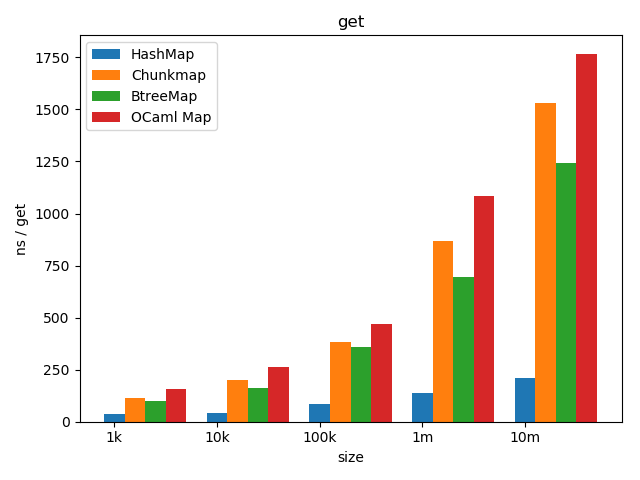
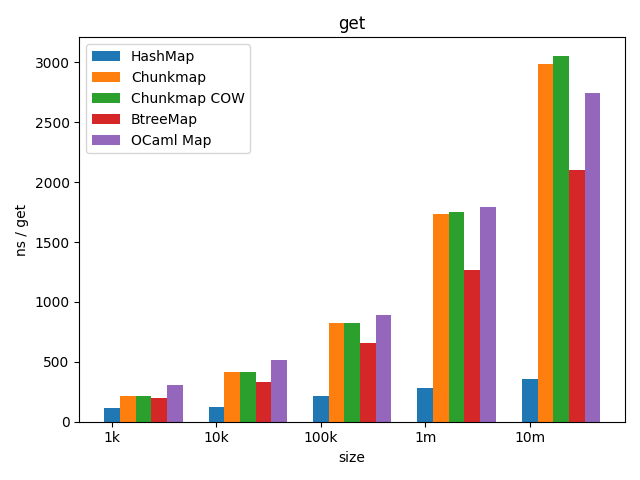
add a benchmark for pure COW CM

diff --git a/bench/bench.py b/bench/bench.py
@@ -45,15 +45,16 @@ def run(exe, bench, kind):
         avg3(result['remove'])
     return result
             
-def plot(fname, title, xlbl, ylbl, cm, hm, btm, oc):
+def plot(fname, title, xlbl, ylbl, cm, cow, hm, btm, oc):
     fig, ax = plt.subplots()
     labels = ['1k', '10k', '100k', '1m', '10m']
     x = np.arange(len(labels))
-    width = 0.20
+    width = 0.15
     rects_hm = ax.bar(x, hm, width, label="HashMap")
     rects_cm = ax.bar(x + width, cm, width, label="Chunkmap")
-    rects_bt = ax.bar(x + width*2, btm, width, label="BtreeMap")
-    rects_oc = ax.bar(x + width*3, oc, width, label="OCaml Map")
+    rects_cow = ax.bar(x + width*2, cow, width, label="Chunkmap COW")
+    rects_bt = ax.bar(x + width*3, btm, width, label="BtreeMap")
+    rects_oc = ax.bar(x + width*4, oc, width, label="OCaml Map")
     ax.set_ylabel(xlbl)
     ax.set_xlabel(ylbl)
     ax.set_title(title)
@@ -70,6 +71,10 @@ def load_results(args):
     except:
         return {
             'cm': {
+                'ptr': proto(),
+                'str': proto()
+            },
+            'cow': {
                 'ptr': proto(),
                 'str': proto()
             },
@@ -97,6 +102,7 @@ def chart(args, results):
         args.data_path + '/usize_insert.png',
         'insert', "ns / insert", "final size",
         results['cm']['ptr']['insert'],
+        results['cow']['ptr']['insert'],
         results['hm']['ptr']['insert'],
         results['btm']['ptr']['insert'],
         results['oc']['ptr']['insert']
@@ -105,6 +111,7 @@ def chart(args, results):
         args.data_path + '/usize_insert_many.png',
         "insert many", "ns / insert", "final size",
         results['cm']['ptr']['insert_many'],
+        results['cow']['ptr']['insert_many'],
         results['hm']['ptr']['insert_many'],
         results['btm']['ptr']['insert_many'],
         results['oc']['ptr']['insert_many']
@@ -113,6 +120,7 @@ def chart(args, results):
         args.data_path + '/usize_insert_many_par.png',
         "insert many (all cores)", "ns / insert", "final size",
         results['cm']['ptr']['insert_many_par'],
+        results['cow']['ptr']['insert_many_par'],
         results['hm']['ptr']['insert_many_par'],
         results['btm']['ptr']['insert_many_par'],
         results['oc']['ptr']['insert_many_par']
@@ -121,6 +129,7 @@ def chart(args, results):
         args.data_path + '/usize_remove.png',
         "remove", "ns / remove", "initial size",
         results['cm']['ptr']['remove'],
+        results['cow']['ptr']['remove'],
         results['hm']['ptr']['remove'],
         results['btm']['ptr']['remove'],
         results['oc']['ptr']['remove']
@@ -129,6 +138,7 @@ def chart(args, results):
         args.data_path + '/usize_get.png',
         "get", "ns / get", "size",
         results['cm']['ptr']['get'],
+        results['cow']['ptr']['get'],
         results['hm']['ptr']['get'],
         results['btm']['ptr']['get'],
         results['oc']['ptr']['get']
@@ -137,6 +147,7 @@ def chart(args, results):
         args.data_path + '/usize_get_parallel.png',
         "get (all cores)", "ns / get", "size",
         results['cm']['ptr']['get_parallel'],
+        results['cow']['ptr']['get_parallel'],
         results['hm']['ptr']['get_parallel'],
         results['btm']['ptr']['get_parallel'],
         results['oc']['ptr']['get_parallel']
@@ -145,6 +156,7 @@ def chart(args, results):
         args.data_path + '/str_insert.png',
         'insert', "ns / insert", "final size",
         results['cm']['str']['insert'],
+        results['cow']['str']['insert'],
         results['hm']['str']['insert'],
         results['btm']['str']['insert'],
         results['oc']['str']['insert']
@@ -153,6 +165,7 @@ def chart(args, results):
         args.data_path + '/str_insert_many.png',
         "insert many", "ns / insert", "final size",
         results['cm']['str']['insert_many'],
+        results['cow']['str']['insert_many'],
         results['hm']['str']['insert_many'],
         results['btm']['str']['insert_many'],
         results['oc']['str']['insert_many']
@@ -161,6 +174,7 @@ def chart(args, results):
         args.data_path + '/str_insert_many_par.png',
         "insert many (all cores)", "ns / insert", "final size",
         results['cm']['str']['insert_many_par'],
+        results['cow']['str']['insert_many_par'],
         results['hm']['str']['insert_many_par'],
         results['btm']['str']['insert_many_par'],
         results['oc']['str']['insert_many_par']
@@ -169,6 +183,7 @@ def chart(args, results):
         args.data_path + '/str_remove.png',
         "remove", "ns / remove", "initial size",
         results['cm']['str']['remove'],
+        results['cow']['str']['remove'],
         results['hm']['str']['remove'],
         results['btm']['str']['remove'],
         results['oc']['str']['remove']
@@ -177,6 +192,7 @@ def chart(args, results):
         args.data_path + '/str_get.png',
         "get", "ns / get", "size",
         results['cm']['str']['get'],
+        results['cow']['str']['get'],
         results['hm']['str']['get'],
         results['btm']['str']['get'],
         results['oc']['str']['get']
@@ -185,6 +201,7 @@ def chart(args, results):
         args.data_path + '/str_get_parallel.png',
         "get (all cores)", "ns / get", "size",
         results['cm']['str']['get_parallel'],
+        results['cow']['str']['get_parallel'],
         results['hm']['str']['get_parallel'],
         results['btm']['str']['get_parallel'],
         results['oc']['str']['get_parallel']
@@ -194,7 +211,7 @@ parser = argparse.ArgumentParser(description = "run benchmarks")
 parser.add_argument(
     '--run',
     required = False,
-    choices = ['all', 'cm', 'hm', 'btm', 'oc']
+    choices = ['all', 'cm', 'cow', 'hm', 'btm', 'oc']
 )
 parser.add_argument('--data-path', required = True)
 parser.add_argument('--chart', default = False, action = 'store_const', const = True)
@@ -205,6 +222,9 @@ results = load_results(args)
 if args.run == 'all' or args.run == 'cm':
     results['cm']['ptr'] = run('target/release/bench', 'cm', 'ptr')
     results['cm']['str'] = run('target/release/bench', 'cm', 'str')
+if args.run == 'all' or args.run == 'cow':
+    results['cow']['ptr'] = run('target/release/bench', 'cow', 'ptr')
+    results['cow']['str'] = run('target/release/bench', 'cow', 'str')
 if args.run == 'all' or args.run == 'hm':
     results['hm']['ptr'] = run('target/release/bench', 'hm', 'ptr')
     results['hm']['str'] = run('target/release/bench', 'hm', 'str')

diff --git a/bench/src/main.rs b/bench/src/main.rs
@@ -1,4 +1,5 @@
 mod utils;
+use arcstr::ArcStr;
 use smallvec::SmallVec;
 use std::{
     env, mem, thread,
@@ -259,11 +260,38 @@ where K: Hash + Ord + Clone + Rand + Send + Sync,
     fn len(&self) -> usize { self.0.len() }
 }
 
+struct COWrap<K: Ord + Clone, V: Clone>(Map<K, V>);
+
+impl<K, V> Collection<K, V> for COWrap<K, V>
+where K: Hash + Ord + Clone + Rand + Send + Sync,
+      V: Hash + Ord + Clone + Rand + Send + Sync
+{
+    fn new() -> Self { COWrap(Map::new()) }
+    fn insert_many(&mut self, chunk: Vec<(K, V)>) {
+        for (k, v) in chunk {
+            self.0.insert_cow(k, v);
+        }
+    }
+    fn insert(&mut self, k: K, v: V) -> Option<V> {
+        self.0.insert_cow(k, v)
+    }
+    fn remove<Q>(&mut self, k: &Q) -> Option<V> where Q: Ord + Hash + Clone, K: Borrow<Q> {
+        self.0.remove_cow(k)
+    }
+    fn get<Q>(&self, k: &Q) -> Option<&V> where Q: Ord + Hash + Clone, K: Borrow<Q> {
+        self.0.get(k)
+    }
+    fn merge_into(&mut self, other: COWrap<K, V>) {
+        self.0 = self.0.union(&other.0, |_, _, v| Some(v.clone()))
+    }
+    fn len(&self) -> usize { self.0.len() }
+}
+
 fn usage() {
     println!("usage: <cm|btm|hm> <ptr|str> <size>")
 }
 
-type S = Vec<u8>;
+type S = ArcStr;
 type P = usize;
 
 fn main() {
@@ -274,6 +302,8 @@ fn main() {
         match (args[1].as_ref(), args[2].as_ref()) {
             ("cm", "ptr") => Bench::<CMWrap<P, P>, P, P>::run(size),
             ("cm", "str") => Bench::<CMWrap<S, S>, S, S>::run(size),
+            ("cow", "ptr") => Bench::<COWrap<P, P>, P, P>::run(size),
+            ("cow", "str") => Bench::<COWrap<S, S>, S, S>::run(size),
             ("btm", "ptr") => Bench::<BTreeMap<P, P>, P, P>::run(size),
             ("btm", "str") => Bench::<BTreeMap<S, S>, S, S>::run(size),
             ("hm", "ptr") => Bench::<HashMap<P, P>, P, P>::run(size),

diff --git a/bench/src/utils.rs b/bench/src/utils.rs
@@ -1,4 +1,5 @@
 use rand::Rng;
+use arcstr::ArcStr;
 use smallvec::SmallVec;
 use std::{
     time::Duration,
@@ -38,6 +39,16 @@ impl Rand for String {
             s.push(r.gen())
         }
         s
+    }
+}
+
+impl Rand for ArcStr {
+    fn rand<R: Rng>(r: &mut R) -> Self {
+        let mut s = String::new();
+        for _ in 0..STRSIZE {
+            s.push(r.gen())
+        }
+        ArcStr::from(&s)
     }
 }
 
